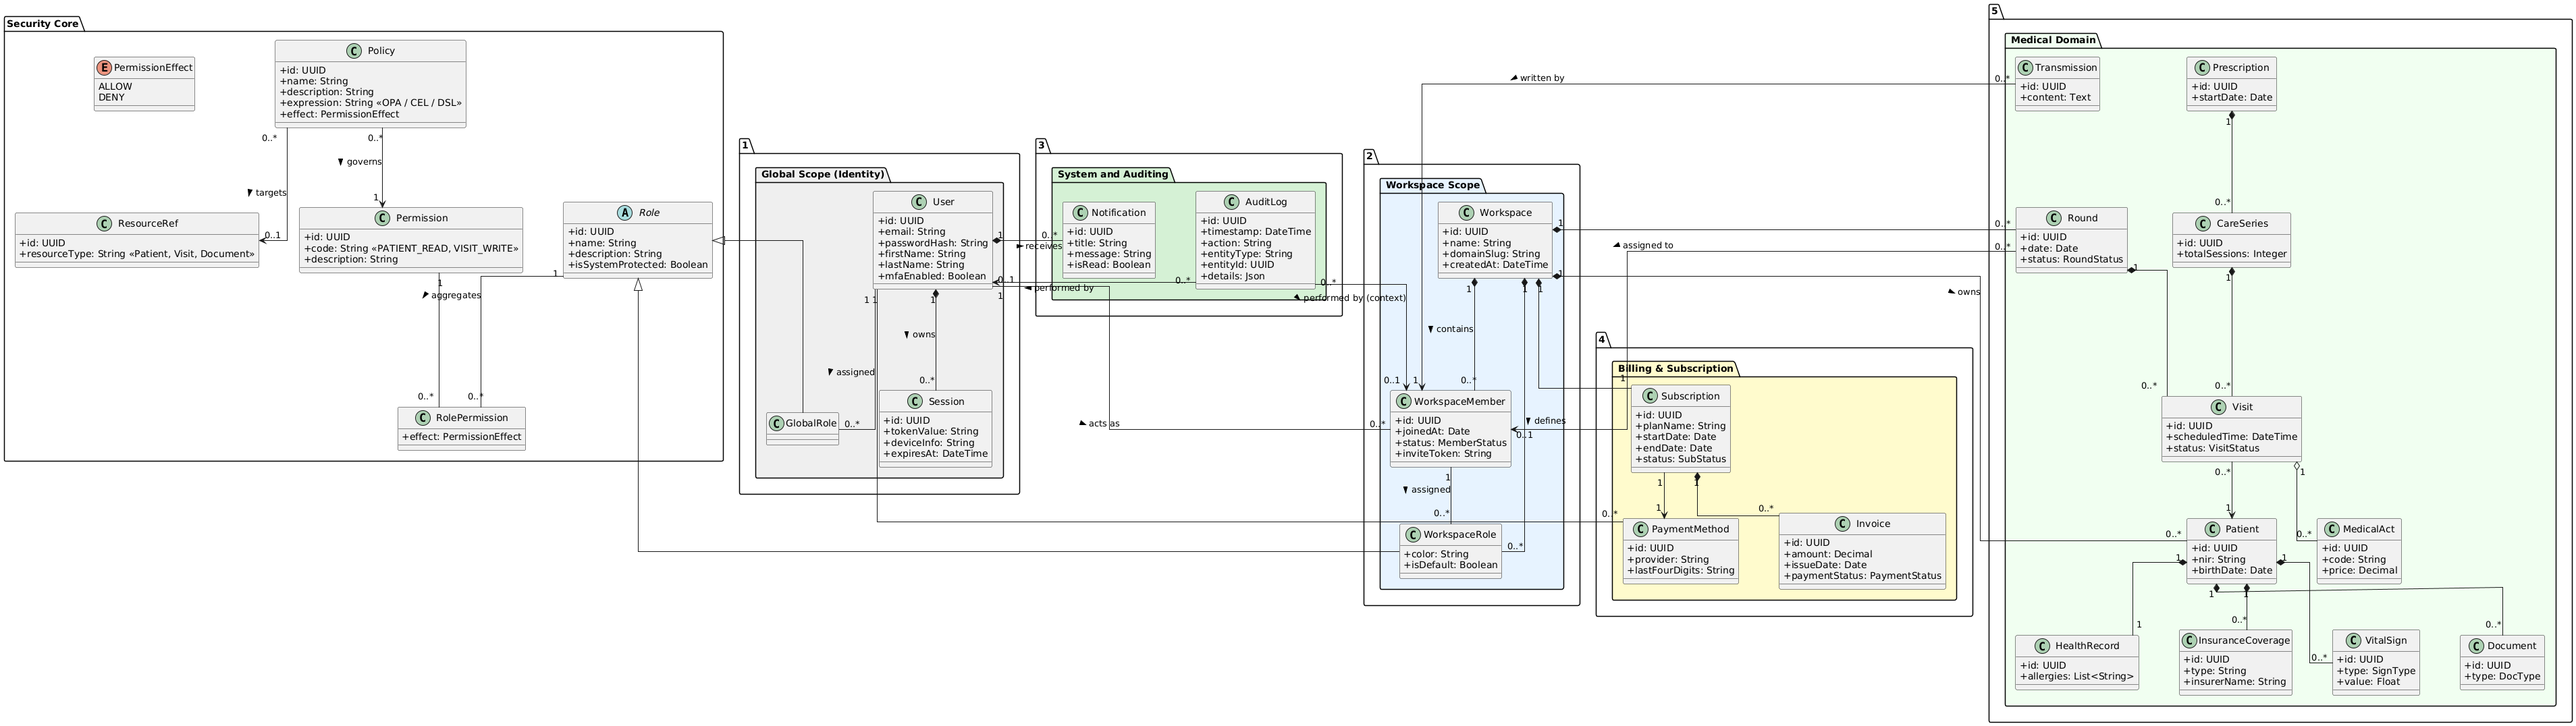
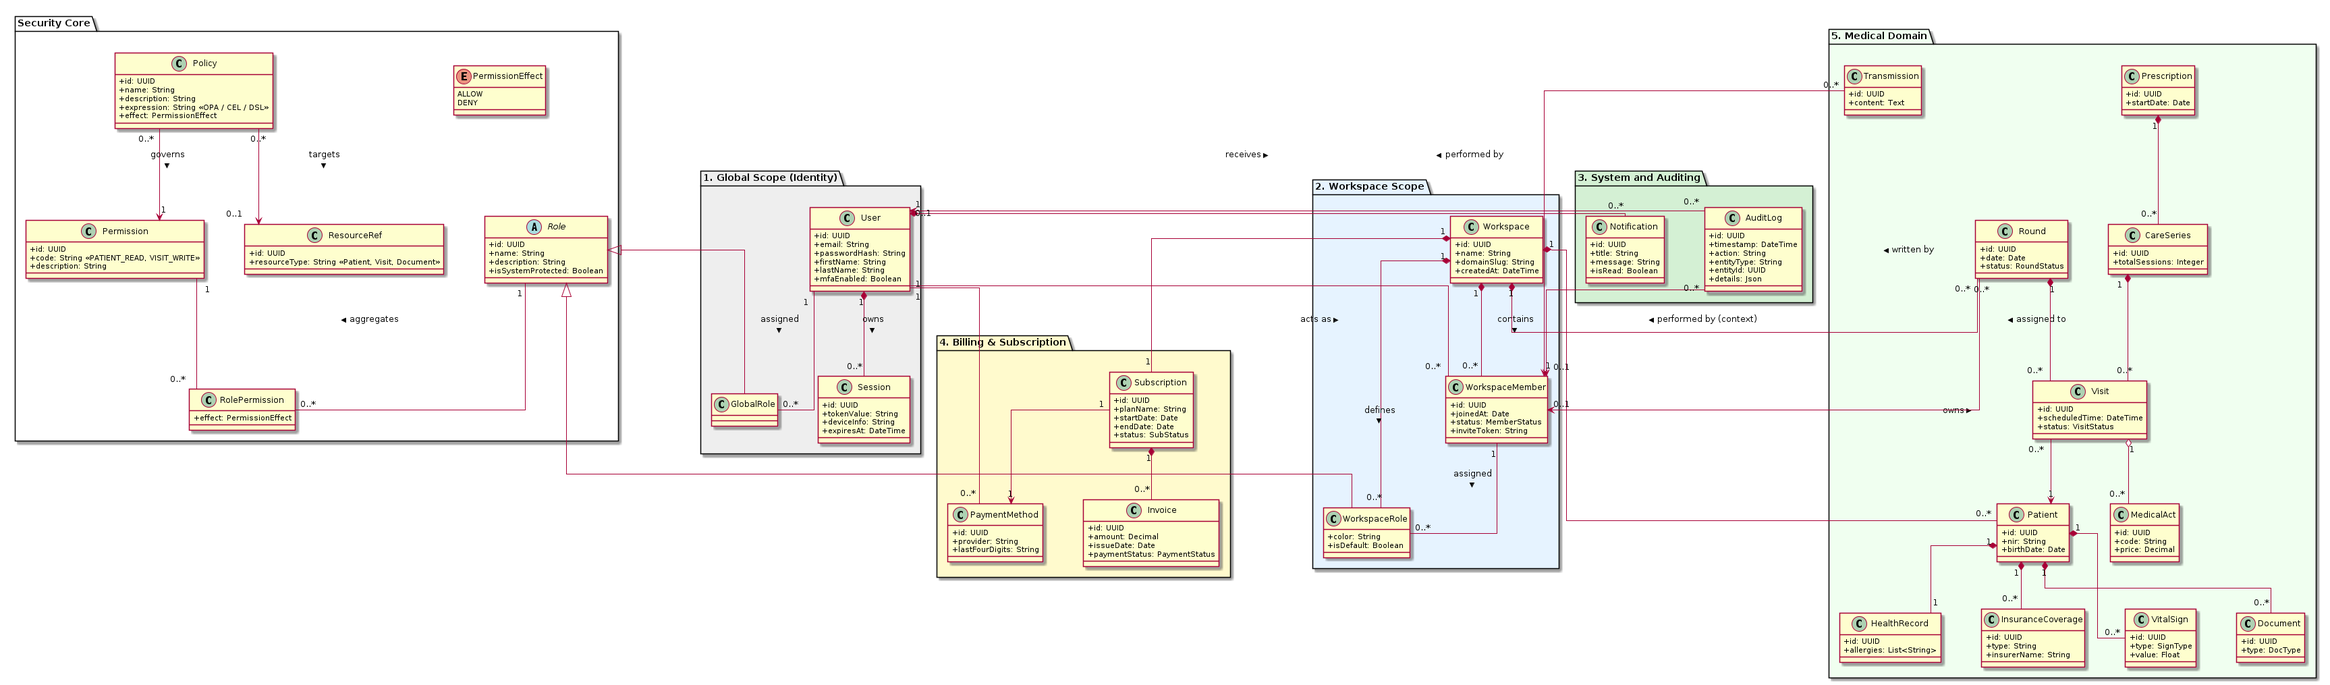
Updating work

diff --git a/README.md b/README.md
@@ -1,22 +1,22 @@
 # Lellis
 
-Lellis is a secure, high-performance backend platform designed for healthcare professionals.  
-It focuses on the management of sensitive medical data, collaborative workspaces, and fine-grained access control, while strictly adhering to **Clean Architecture** and **Microservices** principles.
+Lellis is a secure backend platform designed for healthcare professionals.
+It focuses on the management of sensitive medical data, collaborative medical workspaces, and fine-grained access control, while strictly adhering to **Clean Architecture** and **Domain-Driven Design (DDD)** principles.
 
-The project prioritizes **domain isolation**, **security**, and **scalability**, making it suitable for medical contexts with strong regulatory constraints.
+The project places strong emphasis on **security**, **domain isolation**, and **long-term scalability**, making it suitable for healthcare contexts with high regulatory and confidentiality requirements.
 
 ---
 
 ## Project Overview
 
-Lellis aims to provide healthcare professionals (such as nurses and medical practices) with a modern and modular platform to:
+Lellis aims to provide healthcare professionals (such as nurses, medical practices, and care teams) with a modern and structured platform to:
 
-- centralize patient data,
-- organize medical visits and rounds,
-- collaborate securely within structured workspaces,
-- enforce strict access control on sensitive medical information.
+* centralize patient and medical data,
+* organize visits, rounds, and care activities,
+* collaborate securely within professional workspaces,
+* enforce explicit and auditable access control on sensitive information.
 
-Rather than delivering a monolithic and rigid system, Lellis is designed to evolve progressively, with a strong emphasis on **domain clarity**, **explicit security boundaries**, and **incremental complexity**.
+Rather than delivering a rigid or prematurely complex system, Lellis is designed to **evolve progressively**, with a strong focus on **clear domain boundaries**, **explicit security rules**, and **controlled architectural growth**.
 
 ---
 
@@ -24,22 +24,22 @@ Rather than delivering a monolithic and rigid system, Lellis is designed to evol
 
 Healthcare professionals face multiple operational challenges:
 
-- daily rounds with strict scheduling constraints,
-- fragmented and poorly structured patient information,
-- unorganized medical documents,
-- collaboration between multiple practitioners and roles,
-- heavy administrative workload,
-- very high confidentiality and compliance requirements.
+* daily rounds with strict scheduling constraints,
+* fragmented and poorly structured patient information,
+* unorganized or scattered medical documents,
+* collaboration between multiple practitioners with different responsibilities,
+* heavy administrative workload,
+* very high confidentiality, traceability, and compliance requirements.
 
-Existing tools are often either too complex, too rigid, or insufficiently adapted to real-world medical workflows.
+Existing solutions are often either too complex, too rigid, or insufficiently aligned with real-world medical workflows.
 
 Lellis addresses these challenges by providing:
 
-- a centralized and structured data model,
-- collaborative workspaces,
-- a robust and explicit authorization model,
-- multi-platform access (desktop-first),
-- a modern, secure, and modular backend architecture.
+* a centralized and explicit domain model,
+* collaborative medical workspaces,
+* a robust and auditable authorization system,
+* multi-platform access (desktop-first),
+* a modern, secure, and evolutive backend architecture.
 
 ---
 
@@ -47,118 +47,163 @@ Lellis addresses these challenges by providing:
 
 ### Users and Workspaces
 
-- A **User** represents an individual account at the platform level.
-- A **Workspace** represents a collaborative environment (e.g. a medical practice or healthcare team).
-- A user participates in a workspace through a **Workspace Member** context, which defines their local responsibilities and permissions.
+* A **User** represents an individual account at the platform level.
+* A **Workspace** represents a collaborative medical environment (e.g. a practice, a care team, or a medical unit).
+* A user interacts with a workspace through a **Workspace Member** context, which defines local roles, permissions, and responsibilities.
 
-This separation allows the same user to belong to multiple workspaces with different roles and access levels.
+This separation allows the same user to belong to multiple workspaces while holding different roles and access levels in each.
+
+---
+
+## Architectural Trajectory
+
+Lellis follows a **progressive architectural strategy**:
+
+> **Modular Monolith first → Microservices when justified**
+
+This approach is intentional and driven by both technical and organizational considerations.
+
+### Why not microservices from day one?
+
+While microservices offer strong scalability and isolation guarantees, they also introduce significant operational and cognitive overhead (deployment, orchestration, observability, distributed consistency).
+
+For an early-stage project — especially in a healthcare context where correctness, auditability, and maintainability are critical — starting directly with microservices would be premature.
+
+### Chosen Strategy
+
+1. **Phase 1 – Modular Monolith (Current)**
+
+   * Single deployable backend
+   * Strong internal modularization
+   * Explicit bounded contexts
+   * One database per module
+   * In-process communication and domain events
+
+2. **Phase 2 – Progressive Microservices (Planned)**
+
+   * Selective extraction of modules
+   * Independent deployments where justified
+   * Database ownership preserved
+   * No architectural rewrite required
+
+This trajectory preserves **development velocity and simplicity** early on, while keeping a **clear migration path** toward microservices if and when needed.
 
 ---
 
 ## Security Architecture – Progressive Implementation
 
-Security is a **first-class concern** in Lellis due to the sensitive medical nature of the data.  
-However, implementing a fully expressive authorization system from day one would introduce unnecessary complexity and slow down delivery.
+Security is a **first-class concern** in Lellis due to the sensitive medical nature of the data.
 
-For this reason, the **Security Core is developed in two distinct phases**.
+However, implementing a fully expressive authorization model from the start would introduce unnecessary complexity and risk.
+
+For this reason, the **Security Core is developed incrementally**.
 
 ---
 
 ## Foundational Security Core (Deliverable)
 
-The first phase focuses on a **robust, understandable, and production-ready security foundation**.
+The first phase focuses on a **robust, deterministic, and auditable security foundation**.
 
 Its objectives are:
 
-- ensure strong isolation between users and workspaces,
-- provide clear role-based access control (RBAC),
-- support real-world collaboration scenarios,
-- remain simple enough to be reliably implemented and audited.
+* strong isolation between users and workspaces,
+* explicit role-based access control,
+* predictable and testable permission evaluation,
+* centralized audit logging.
 
 ### Key Characteristics
 
-- Role-Based Access Control (RBAC)
-- Explicit permissions expressed as domain value objects
-- Separation between global roles and workspace roles
-- Deterministic permission evaluation
-- Centralized audit logging
-- No contextual or attribute-based rules yet
+* Role-Based Access Control (RBAC)
+* Explicit permission codes as domain value objects
+* Clear separation between global roles and workspace roles
+* Deterministic authorization logic
+* Centralized audit trail
+* No contextual or attribute-based rules yet
 
-This phase deliberately avoids advanced policy engines or dynamic rules in order to guarantee **correctness, maintainability, and fast iteration**.
+This phase deliberately avoids advanced policy engines to guarantee **correctness, maintainability, and fast iteration**.
 
 ---
 
 ## Phase 1 – Security Core Class Diagram
 
-The following diagram represents the **Phase 1 Security Core domain model**, which is currently implemented and considered the stable foundation of the system.
+The following diagram represents the **foundational Security Core domain model**, currently implemented and considered stable.
 
-![Security Core – Phase 1](docs/security-core-phase-1.png)
-
-### Design Overview
-
-#### Security Core (RBAC)
-
-- `Role` is an abstract domain concept.
-- Roles aggregate permissions through `RolePermission`.
-- Permissions are expressed using explicit `PermissionCode` value objects.
-- Roles can evaluate permissions deterministically via `can(permissionCode)`.
-
-#### Identity Management
-
-- Users are assigned **global roles**.
-- Sessions represent authenticated contexts.
-- Global permissions apply outside of any workspace context.
-
-#### Workspace Management
-
-- Workspaces define collaborative boundaries.
-- Users interact with workspaces through `WorkspaceMember`.
-- Workspace-specific roles allow fine-grained delegation without affecting global privileges.
-
-#### Audit & Notification
-
-- All sensitive actions are auditable.
-- Audit logs preserve actor identity and optional workspace context.
-- Notifications provide feedback without exposing sensitive data.
+![Security Core – Phase 1](docs/security-core-v1.png)
 
 ---
 
 ## Phase 2 – Advanced Authorization (Planned)
 
-The second phase will extend the Security Core with **context-aware authorization** mechanisms.
-
-This phase is intentionally postponed to avoid premature complexity.
+The second phase will introduce **context-aware authorization**, built on top of the existing RBAC foundation.
 
 Planned extensions include:
 
-- Attribute-Based Access Control (ABAC)
-- Contextual permissions (time, assignment, emergency access)
-- Medical-specific access rules (e.g. assigned caregiver)
-- Policy composition and evaluation strategies
-- Temporary and delegated permissions
+* Attribute-Based Access Control (ABAC)
+* Contextual permissions (assignment, time, emergency access)
+* Medical-specific access rules
+* Policy composition and evaluation strategies
+* Temporary and delegated permissions
 
-Phase 2 will be designed **on top of** the Phase 1 foundation, without breaking existing domain contracts.
+This phase will **not break existing domain contracts** and will remain strictly isolated within the security module.
 
 ---
 
 ## Architecture Overview
 
-Lellis follows **Clean Architecture** principles with strict separation between:
+Lellis follows **Clean Architecture**, with strict separation between:
 
-- domain logic,
-- application services,
-- infrastructure and delivery mechanisms.
+* domain logic,
+* application use cases,
+* infrastructure concerns,
+* delivery mechanisms.
 
-### High-Level Deployment Architecture
+The project documentation currently includes **five PlantUML diagrams**:
 
-![Deployment Diagram](docs/deployment.png)
+1. **Global Domain Class Diagram**
+   → Represents the complete business domain.
 
-Key characteristics:
+2. **Security Core Class Diagram**
+   → Focused view of the authorization model.
 
-- desktop client built with **Tauri**,
-- API access through a centralized gateway,
-- backend services evolving toward microservices,
-- strict isolation between domain and infrastructure concerns.
+3. **Use Case Diagram**
+   → Global and workspace-level interactions.
+
+4. **Deployment Diagram – Modular Monolith (Current)**
+   → Actual production target for Phase 1.
+
+5. **Deployment Diagram – Microservices (Target)**
+   → Long-term architectural vision.
+
+---
+
+## Deployment Architecture – Modular Monolith (Current)
+
+The modular monolith is the **current and intended deployment model**.
+
+![Deployment – Modular Monolith](docs/deployment-diagram-modular-monolith.png)
+
+### Characteristics
+
+* Single backend deployment
+* Strong internal modular boundaries
+* One database per module
+* In-process domain events
+* Simplified operations and debugging
+* Self-hostable and OSS-friendly
+
+---
+
+## Deployment Architecture – Microservices (Target)
+
+The microservices architecture represents a **future evolution**, not the initial implementation.
+
+![Deployment – Microservices](docs/deployment-diagram.png)
+
+Modules may be extracted independently when:
+
+* operational scaling is required,
+* organizational boundaries justify it,
+* deployment isolation becomes necessary.
 
 ---
 
@@ -168,34 +213,21 @@ The medical domain is modeled independently from security and infrastructure.
 
 ![Domain Class Diagram](docs/class-diagram.png)
 
-Core domain concepts include:
+Core concepts include:
 
-- patients and medical records,
-- visits, rounds, and care activities,
-- documents and medical artifacts,
-- collaborative structures.
+* patients and health records,
+* visits, rounds, and care series,
+* prescriptions and medical acts,
+* documents and transmissions,
+* collaborative workspace structures.
 
 ---
 
 ## Use Case Overview
 
-The system distinguishes between **global operations** and **workspace-level medical workflows**.
+The system distinguishes between **global platform operations** and **workspace-level medical workflows**.
 
-![Use Case Diagram](docs/usecase.png)
-
-### Global Scope
-
-- authentication and identity management,
-- platform administration,
-- workspace lifecycle management,
-- security supervision and auditing.
-
-### Workspace Scope
-
-- patient record access,
-- visit and round planning,
-- document management,
-- internal collaboration.
+![Use Case Diagram](docs/global-diagram.png)
 
 ---
 
@@ -203,37 +235,37 @@ The system distinguishes between **global operations** and **workspace-level med
 
 ### Backend
 
-- TypeScript
-- Bun
-- HonoJS / ElysiaJS
-- PostgreSQL
-- Prisma
-- Docker
+* TypeScript
+* Bun
+* HonoJS / ElysiaJS
+* PostgreSQL (one database per module)
+* Prisma
+* Docker
 
 ### Clients
 
-- Desktop (Tauri)
-- Web (planned)
-- Mobile (planned)
+* Desktop (Tauri)
+* Web (planned)
+* Mobile (planned)
 
 ---
 
 ## Project Status and Roadmap
 
-### Phase 1 – MVP
+### Phase 1 – MVP (Current)
 
-- identity and workspace management,
-- foundational Security Core (RBAC),
-- stable backend API,
-- desktop client,
-- basic patient records,
-- basic planning features.
+* identity and workspace management,
+* modular monolith backend,
+* foundational Security Core (RBAC),
+* desktop client,
+* basic patient records,
+* visit and planning features.
 
-Phase 2 will progressively introduce advanced authorization, medical workflows, and integrations.
+Future phases will progressively introduce advanced authorization, medical workflows, and selective service extraction.
 
 ---
 
 ## License
 
-This project is under active development.  
+This project is under active development.
 License information will be defined at a later stage.
